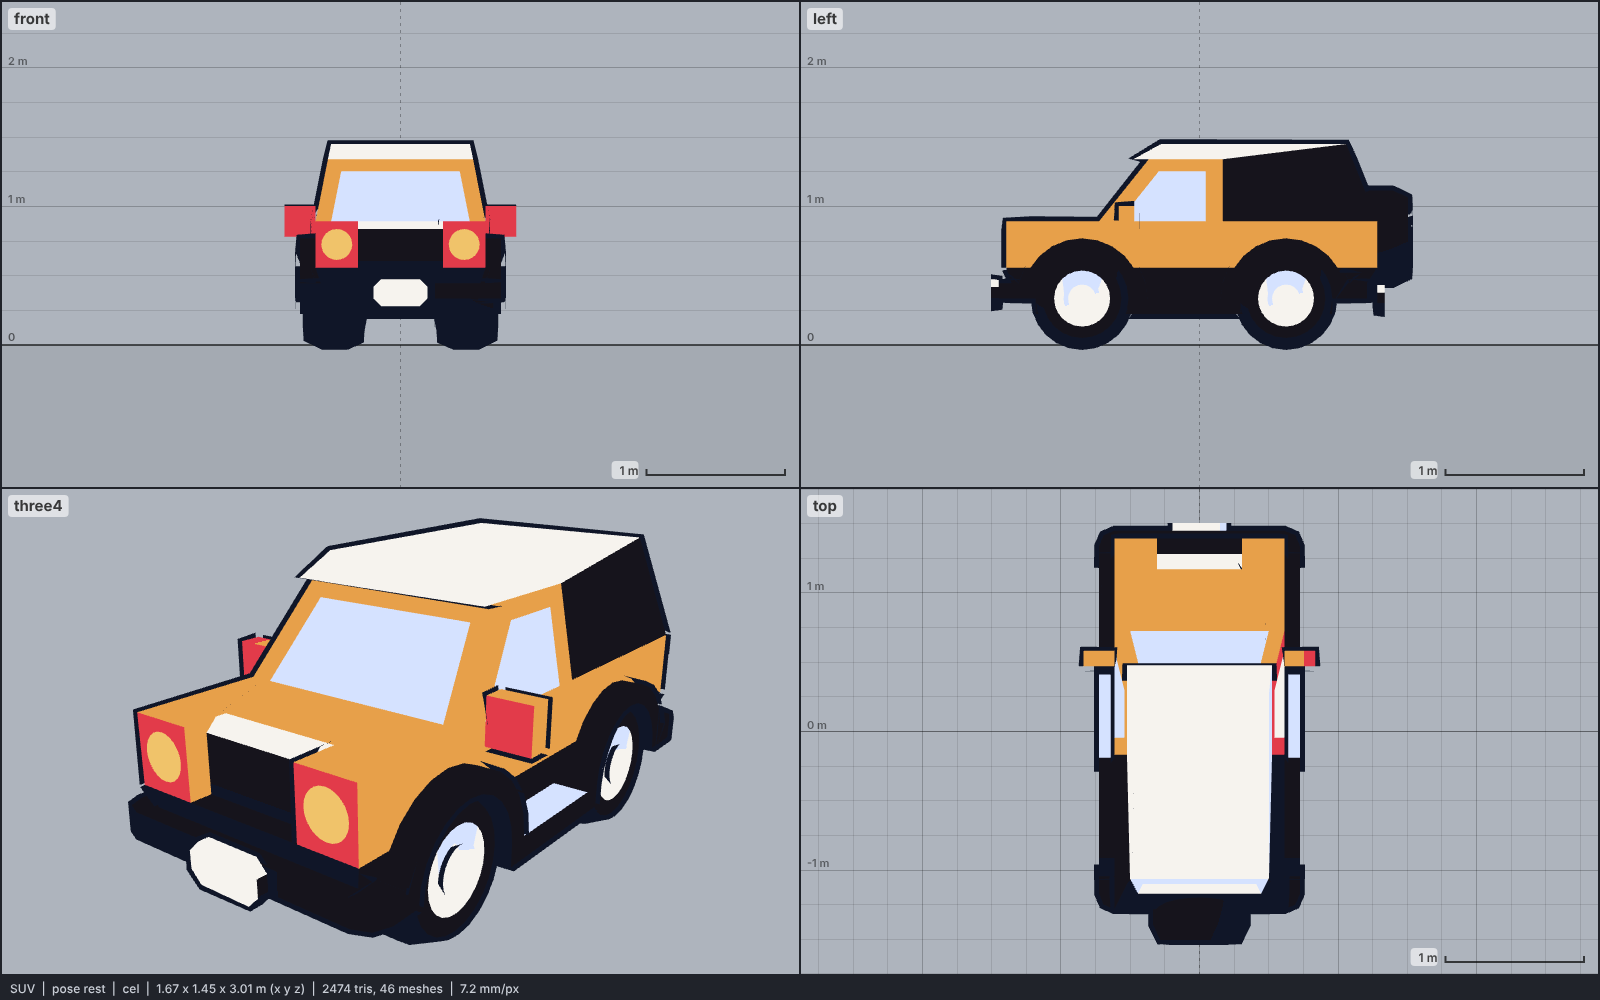
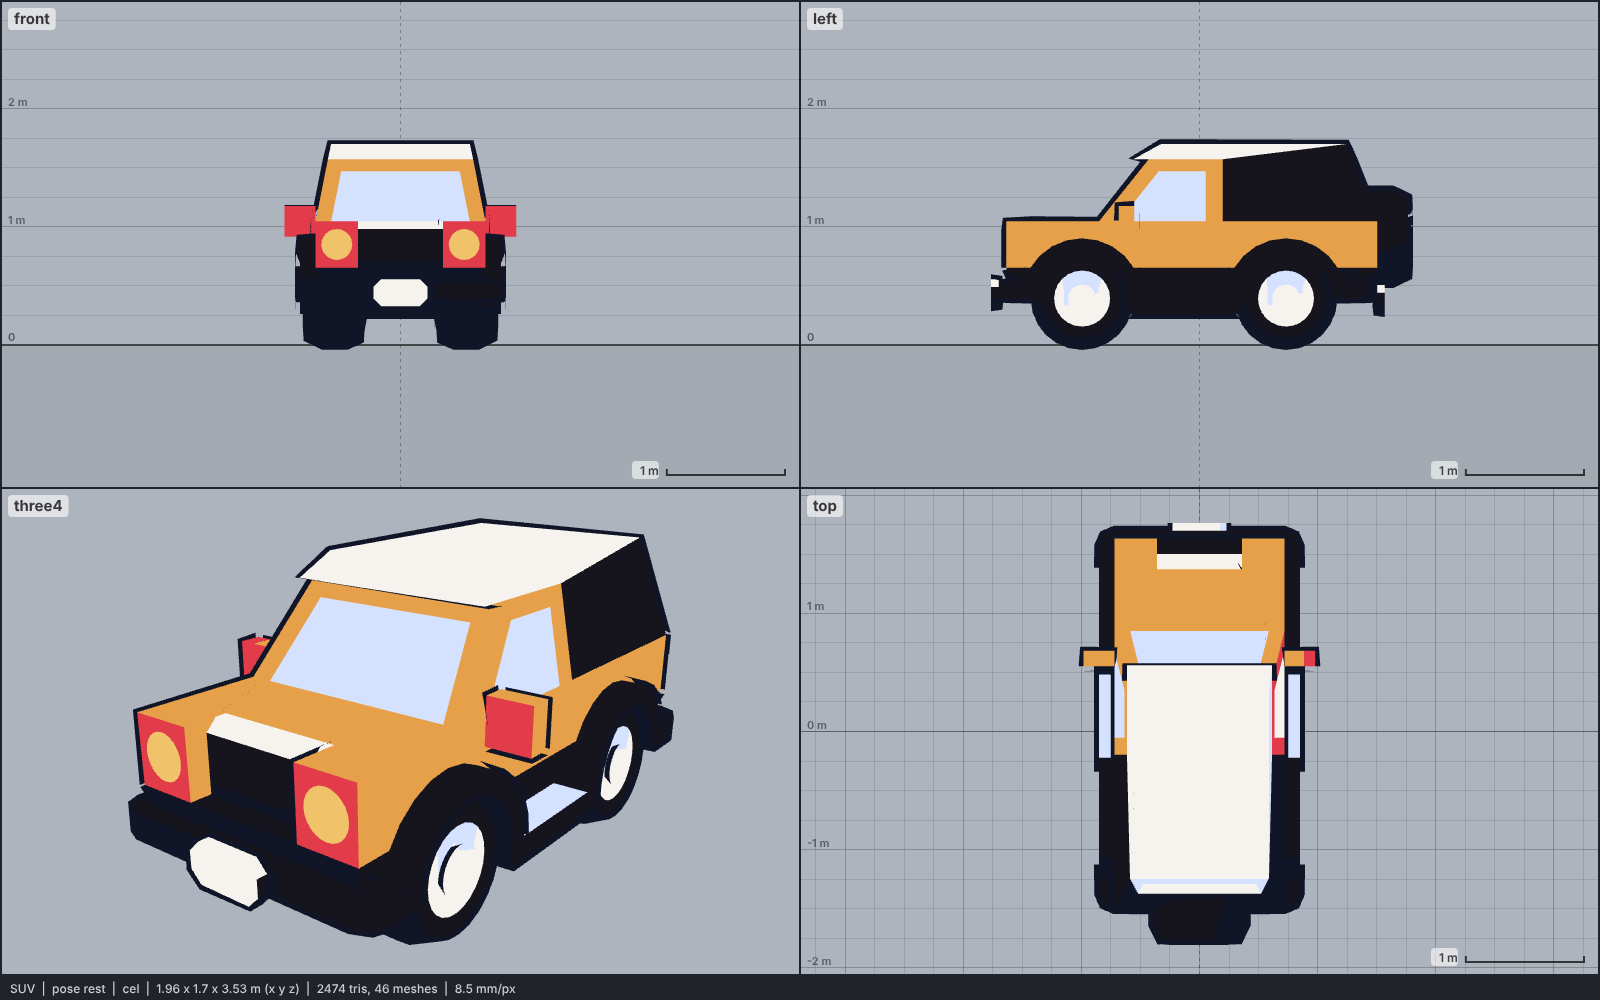
car-suv: real size, 1.7 m tall (short two-door 4x4)
The model is a boxy two-door off-roader (length 2.08x height), so it is
scaled to Jimny-like dimensions: 1.7 m tall, 3.53 m long with the spare
wheel, body about 1.7 m wide. Re-ingested, checked, catalog regenerated;
merges the latest models/pipeline.

Claude-Session: https://claude.ai/code/session_01RarBCdt4E1fNHHaUKaW5GL

diff --git a/models/CATALOG.md b/models/CATALOG.md
@@ -9,4 +9,4 @@
 
 | preview | id | model | height | tris | clips | licence | source |
 | --- | --- | --- | --- | --- | --- | --- | --- |
-| <img src="library/car-suv/preview.png" width="240"> | `car-suv` | SUV<br>*low-poly, flat colours (Kenney Car Kit)* | 1.45 m | 2474 | - | CC0 1.0 | [Kenney · Car Kit](https://kenney.nl/assets/car-kit) |
+| <img src="library/car-suv/preview.png" width="240"> | `car-suv` | SUV<br>*low-poly, flat colours (Kenney Car Kit)* | 1.7 m | 2474 | - | CC0 1.0 | [Kenney · Car Kit](https://kenney.nl/assets/car-kit) |
